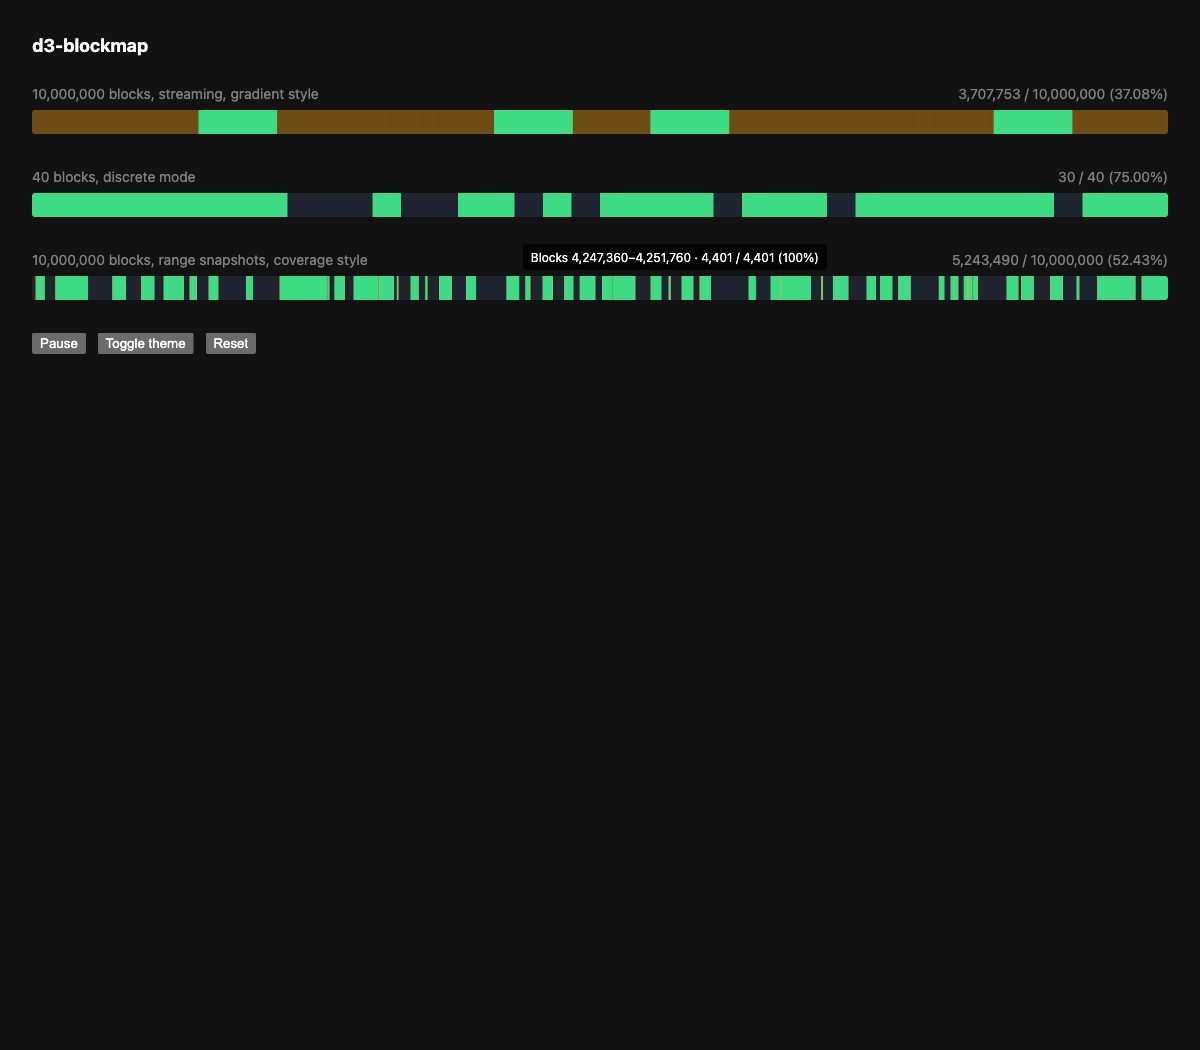
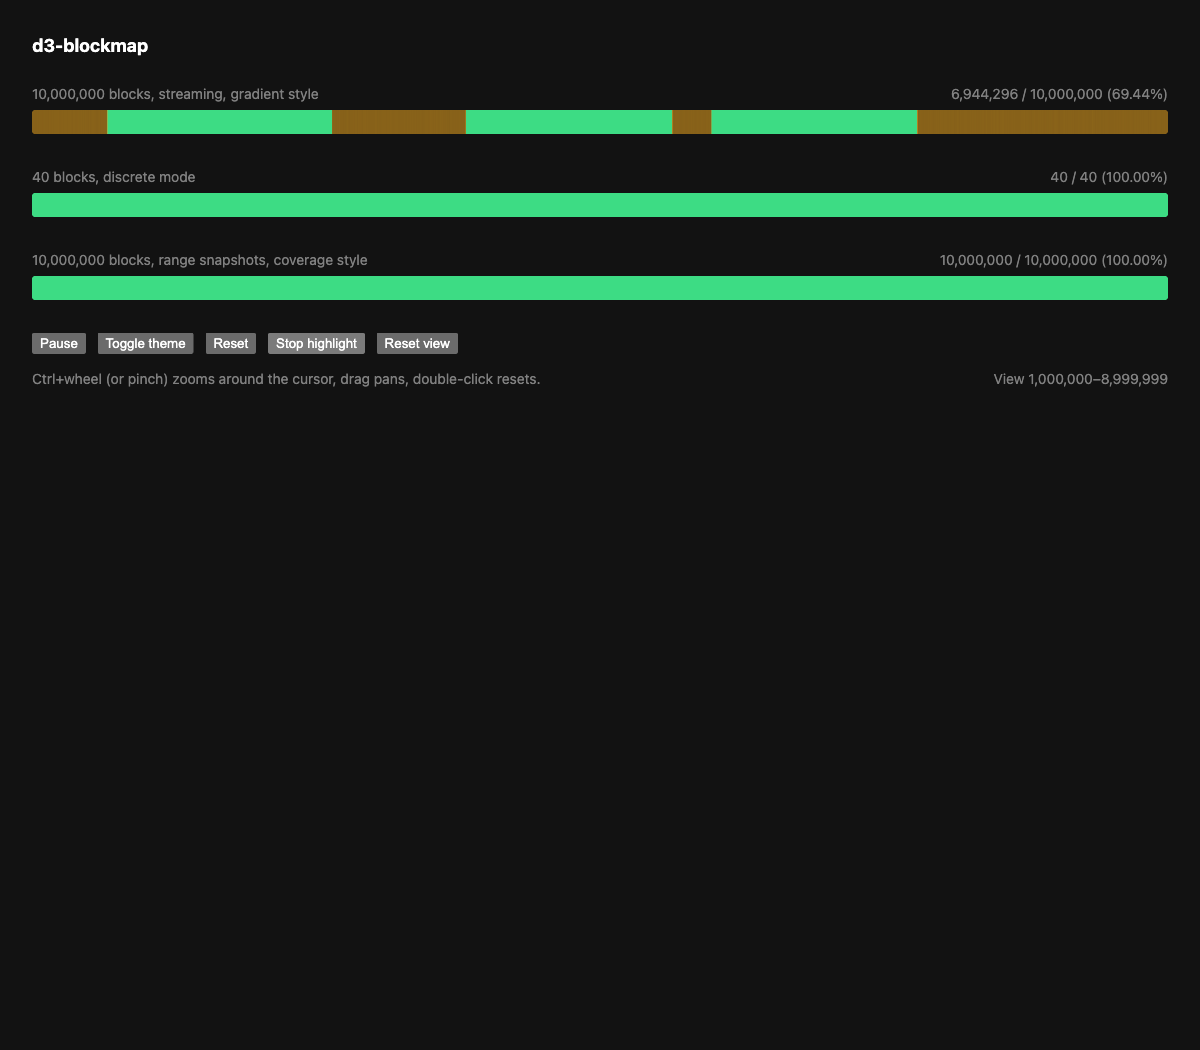
docs: zoom and highlight in demo and README

diff --git a/demo/index.html b/demo/index.html
@@ -10,6 +10,7 @@
     --blockmap-partial-high: #f0b429;
     --blockmap-partial: #f0b429;
     --blockmap-complete: #3ddc84;
+    --blockmap-highlight: #ff4d4f;
     color-scheme: dark;
   }
   html[data-theme="light"] {
@@ -18,6 +19,7 @@
     --blockmap-partial-high: #ff8c00;
     --blockmap-partial: #ff8c00;
     --blockmap-complete: #1a9e4b;
+    --blockmap-highlight: #d4380d;
     color-scheme: light;
   }
   body { font: 14px/1.5 system-ui, sans-serif; margin: 0; padding: 32px; background: Canvas; color: CanvasText; }
@@ -48,7 +50,10 @@
   <button id="toggle">Pause</button>
   <button id="theme">Toggle theme</button>
   <button id="reset">Reset</button>
+  <button id="highlight">Highlight incomplete</button>
+  <button id="reset-view">Reset view</button>
 </p>
+<p class="label">Ctrl+wheel (or pinch) zooms around the cursor, drag pans, double-click resets. <span id="view"></span></p>
 <script type="importmap">
 { "imports": {
   "d3-blockmap": "/dist/index.js",
@@ -69,6 +74,9 @@ const small = createBlockMap(document.querySelector("#small"), { totalBlocks: SM
 const rangeMap = createBlockMap(document.querySelector("#ranges"), {
   totalBlocks: BIG,
   partial: "coverage",
+  onViewChange: (view) => {
+    document.querySelector("#view").textContent = `View ${fmt.format(view.start)}–${fmt.format(view.end - 1)}`;
+  },
 });
 const RUN_SEED = 24;
 const RUN_MAX = 400;
@@ -87,11 +95,14 @@ seedRuns();
 let rangeTick = 0;
 const stepRanges = () => {
   rangeTick += 1;
-  for (const run of runs) run[1] += Math.floor(Math.random() * RUN_GROWTH);
+  for (const run of runs) {
+    const left = Math.min(run[0], Math.floor(Math.random() * RUN_GROWTH));
+    run[0] -= left;
+    run[1] += left + Math.floor(Math.random() * RUN_GROWTH);
+  }
   if (rangeTick % NEW_RUN_EVERY === 0 && runs.length < RUN_MAX) addRun();
   if (rangeTick % SNAPSHOT_EVERY === 0) {
     rangeMap.setRanges(runs.map(([start, length]) => [start, start + length]));
-    showProgress(rangeMap, document.querySelector("#ranges-progress"));
   }
 };
 
@@ -99,6 +110,15 @@ const fmt = new Intl.NumberFormat("en-US");
 const showProgress = (map, el) => {
   const { completed, total } = map.getProgress();
   el.textContent = `${fmt.format(completed)} / ${fmt.format(total)} (${((completed / total) * 100).toFixed(2)}%)`;
+};
+
+const maps = [big, small, rangeMap];
+const LABEL_INTERVAL_MS = 500;
+let lastLabelUpdate = 0;
+const updateLabels = () => {
+  showProgress(big, document.querySelector("#big-progress"));
+  showProgress(small, document.querySelector("#small-progress"));
+  showProgress(rangeMap, document.querySelector("#ranges-progress"));
 };
 
 const fronts = Array.from({ length: FRONTS }, () => Math.floor(Math.random() * BIG));
@@ -116,9 +136,17 @@ const step = () => {
     big.addBlocks(batch);
     smallTick += 1;
     if (smallTick % 30 === 0) small.addBlocks([Math.floor(Math.random() * SMALL)]);
-    showProgress(big, document.querySelector("#big-progress"));
-    showProgress(small, document.querySelector("#small-progress"));
     stepRanges();
+    const now = performance.now();
+    if (now - lastLabelUpdate >= LABEL_INTERVAL_MS) {
+      updateLabels();
+      lastLabelUpdate = now;
+    }
+    if (maps.every((map) => { const p = map.getProgress(); return p.completed === p.total; })) {
+      running = false;
+      document.querySelector("#toggle").textContent = "Done";
+      updateLabels();
+    }
   }
   requestAnimationFrame(step);
 };
@@ -129,11 +157,20 @@ document.querySelector("#theme").onclick = () => {
   const html = document.documentElement;
   html.dataset.theme = html.dataset.theme === "light" ? "" : "light";
 };
+let highlighted = false;
+document.querySelector("#highlight").onclick = (e) => {
+  highlighted = !highlighted;
+  maps.forEach((map) => map.setHighlight(highlighted));
+  e.target.textContent = highlighted ? "Stop highlight" : "Highlight incomplete";
+};
+document.querySelector("#reset-view").onclick = () => maps.forEach((map) => map.resetView());
 document.querySelector("#reset").onclick = () => {
   big.setBlocks([]);
   small.setBlocks([]);
   seedRuns();
   rangeMap.setRanges([]);
+  running = true;
+  document.querySelector("#toggle").textContent = "Pause";
 };
 </script>
 </body>

diff --git a/README.md b/README.md
@@ -13,7 +13,7 @@ npm i d3-blockmap
 | Export | From | Purpose |
 |---|---|---|
 | `createBlockMap(container, options)` | `d3-blockmap` | Vanilla factory. Returns `BlockMap`. |
-| `BlockMap`, `BlockMapOptions`, `Progress`, `Theme`, `BlockRangeTuple`, `RangeInput`, `PartialStyle` | `d3-blockmap` | Types. |
+| `BlockMap`, `BlockMapOptions`, `Progress`, `Theme`, `BlockRangeTuple`, `RangeInput`, `PartialStyle`, `BlockView` | `d3-blockmap` | Types. |
 | `<BlockMap>` | `d3-blockmap/react` | React wrapper, `forwardRef` to `BlockMapHandle`. |
 | `BlockMapProps`, `BlockMapHandle` | `d3-blockmap/react` | Types. |
 
@@ -51,7 +51,9 @@ ref.current?.addBlocks(newIndices);
 
 A new `blocks` array identity triggers `setBlocks`; keep the reference stable between renders unless the full set changed. `ranges` (`RangeInput`) behaves the same way via `setRanges`. When both `ranges` and `blocks` are given, ranges are applied first and blocks are added on top; any identity change of either prop re-applies the `ranges` snapshot and then adds `blocks` on top again, so keep both references stable between renders. `partial` (`"gradient" | "coverage"`) recreates the underlying instance when its value changes.
 
-`BlockMapHandle` also exposes an imperative `setRanges(ranges)`, bypassing React state, for high-frequency snapshots where re-rendering on every tick would be wasteful. Do not combine it with the `ranges` prop; the prop's own effect will re-apply and fight the imperative calls.
+`view` (`BlockView`) applies via `setView` when its identity changes. `interactive` (`boolean`, default `true`) recreates the underlying instance when its value changes, same as `partial`. `onViewChange` is called after the view changes by API or interaction; its identity does not trigger instance recreation, so inline closures are fine. `highlight` (`boolean`) toggles blinking on incomplete bins via `setHighlight`.
+
+`BlockMapHandle` also exposes an imperative `setRanges(ranges)`, bypassing React state, for high-frequency snapshots where re-rendering on every tick would be wasteful. Do not combine it with the `ranges` prop; the prop's own effect will re-apply and fight the imperative calls. The handle additionally exposes `setView(view)`, `resetView()`, `getView()`, and `setHighlight(on)` for the same imperative use case.
 
 ## API
 
@@ -63,6 +65,9 @@ A new `blocks` array identity triggers `setBlocks`; keep the reference stable be
 | `initialBlocks` | `ArrayLike<number>` | Optional. Indices already complete. |
 | `initialRanges` | `RangeInput` | Optional. `[start, end)` tuples or a flat `Uint32Array` of pairs. Applied before `initialBlocks`. |
 | `partial` | `"gradient" \| "coverage"` | Default `"coverage"`. `"gradient"` is opt-in and blends between the two partial colours instead of missing-to-complete. |
+| `view` | `BlockView` | Optional. Initial `{ start, end }` window in block indices, `end` exclusive. |
+| `interactive` | `boolean` | Default `true`. Ctrl+wheel or pinch zooms around the cursor, drag pans, double-click resets. |
+| `onViewChange` | `(view: BlockView) => void` | Called after the view changes by API or interaction. |
 
 Returns:
 
@@ -72,6 +77,10 @@ Returns:
 | `setRanges(ranges)` | Replace all state from a snapshot of `[start, end)` tuples. Any sizes, unsorted and overlapping allowed. O(ranges log ranges + bins + totalBlocks / 8). |
 | `addBlocks(indices)` | Add newly completed indices. O(indices). Duplicates and out-of-range skipped. |
 | `getProgress()` | `{ completed, total }`. |
+| `setView(view)` | Clamp and apply a view window; repaints and calls `onViewChange` if it changed. |
+| `resetView()` | Back to the full range. |
+| `getView()` | Current `{ start, end }`. |
+| `setHighlight(on)` | Blink every incomplete bin between its colour and `--blockmap-highlight` at 2 Hz. Steady under `prefers-reduced-motion`. |
 | `destroy()` | Remove canvas, tooltip, observers. Idempotent. |
 
 ### Theming
@@ -85,8 +94,9 @@ Colours are read from CSS custom properties on the container at start and on the
 | `--blockmap-partial-high` | `#e0a500` |
 | `--blockmap-partial` | `#e0a500` |
 | `--blockmap-complete` | `#2ecc71` |
+| `--blockmap-highlight` | `#ff4d4f` |
 
-Fully missing and fully complete bins use the exact endpoint colours. By default (`partial: "coverage"`), partial bins fade `--blockmap-missing` → `--blockmap-partial` → `--blockmap-complete` by bin fill fraction. `partial: "gradient"` is opt-in and interpolates partial bins between `--blockmap-partial-low` and `--blockmap-partial-high` instead; those two variables apply only to `"gradient"`.
+Fully missing and fully complete bins use the exact endpoint colours. By default (`partial: "coverage"`), partial bins fade `--blockmap-missing` → `--blockmap-partial` → `--blockmap-complete` by bin fill fraction. `partial: "gradient"` is opt-in and interpolates partial bins between `--blockmap-partial-low` and `--blockmap-partial-high` instead; those two variables apply only to `"gradient"`. `--blockmap-highlight` is the blink colour for incomplete bins while highlight is on (see `setHighlight` below).
 
 #### Tooltip
 
@@ -111,6 +121,8 @@ The tooltip element carries the attribute `data-blockmap-tooltip` and ships unst
 - The container is set to `position: relative` if it is static, so the tooltip can be positioned inside it.
 - The container must have a height; the canvas fills it via `width: 100%; height: 100%`.
 - Range ends are exclusive. Tuples are clamped to the block range; empty or inverted tuples are dropped; overlapping and touching tuples merge.
+- Zooming keeps the block under the cursor at the same column; the view is clamped to the block range with a minimum of one block.
+- Bins are computed over the current view, so zooming far enough in switches to discrete per-block segments.
 
 ## Development
 
